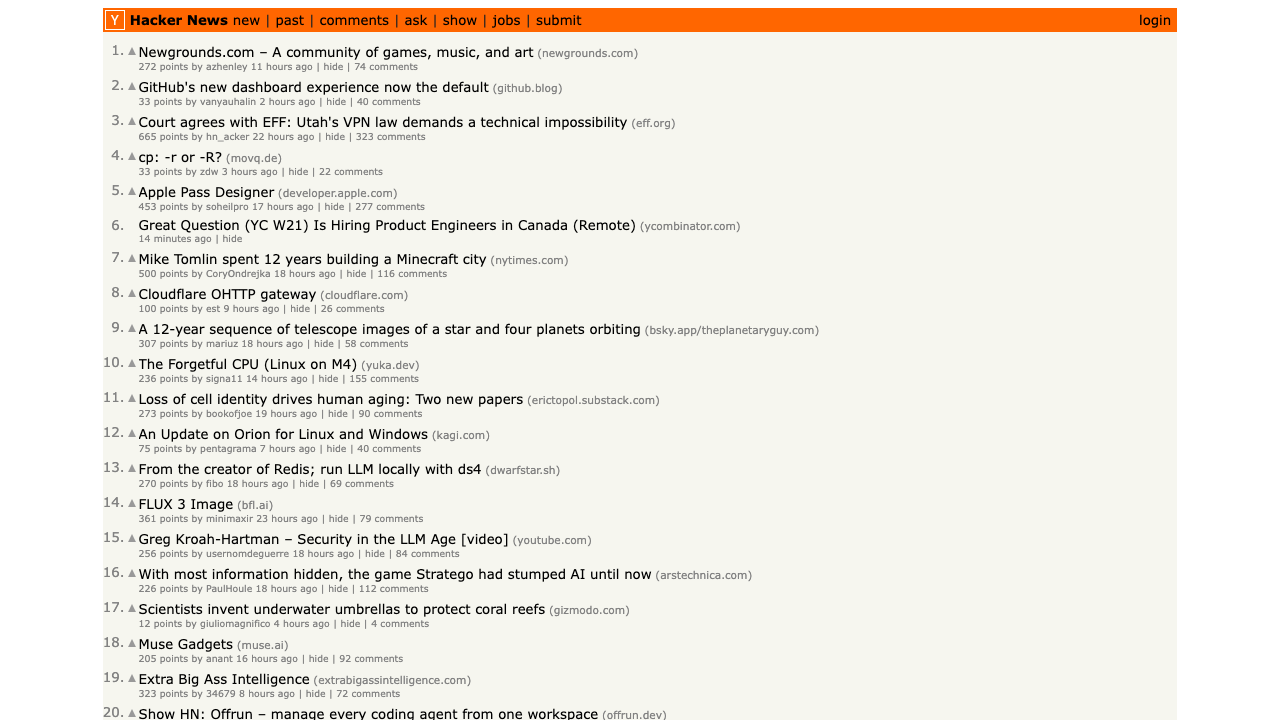
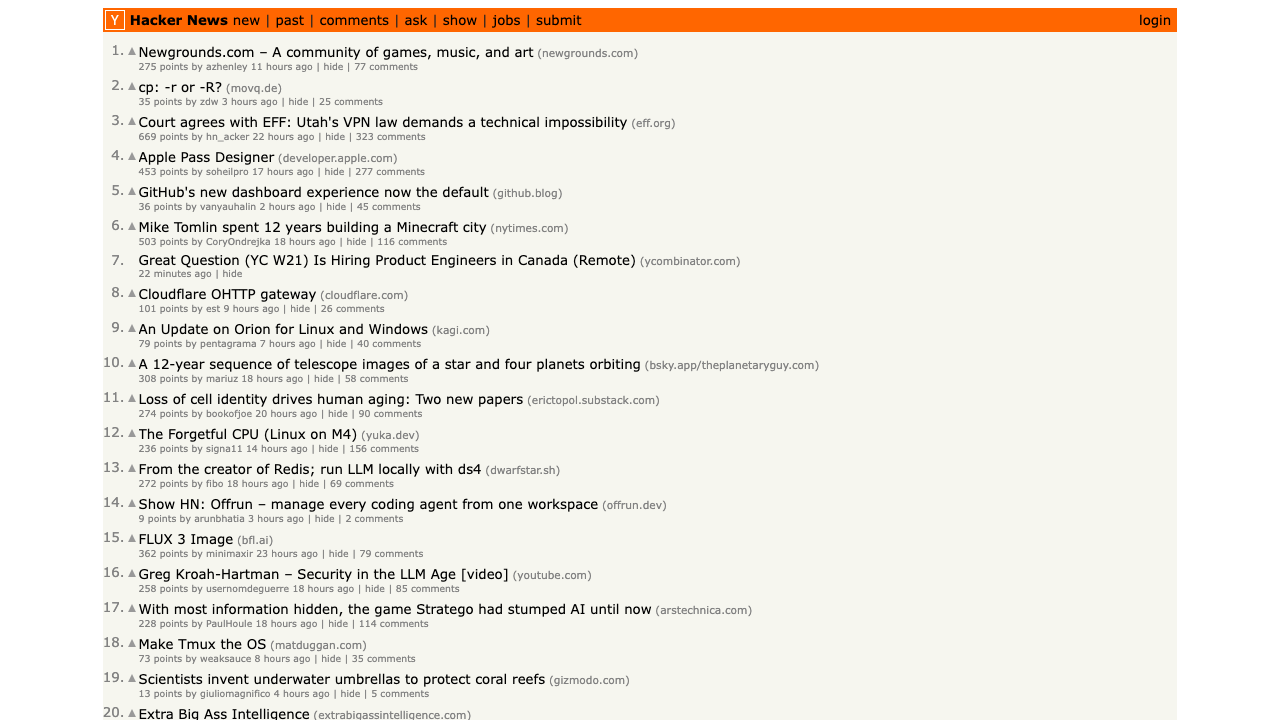
Let with values use the ones before them
The values of a step's or an assertion's `with` were all filled in at
once, using only the variables from outside the step. A value could not
read the other values of the same `with`, nor the Gherkin values that
are merged into it, so a step definition such as

    with:
      link: "tr.athing >> nth=${arg1 - 1} >> .titleline > a"

failed at run time with "unknown variable arg1", although
`ivy validate` accepted it.

Template.interpolateInOrder fills the values in one by one, each able
to use the ones before it, as suite vars already do. Gherkin values come
first. A value can still use an outside variable of the same name
(`user: "${user}-x"`). StepProcessor uses it for step `with`, and
AssertionChecker for assertion `with`.

- TemplateTest: values that use earlier values and outer variables
- shell.feature: a step definition whose `with` uses arg1 and an
  earlier value
- examples/browser: the Hacker News definition uses `with: {link: ...}`
  again instead of repeating its selector; screenshots regenerated
- docs: the order of `with` values in expressions.md; the Gherkin
  walkthrough in mcp.md shows the fix

diff --git a/ivy-core/src/main/java/xyz/fokion/ivy/core/expr/Template.java b/ivy-core/src/main/java/xyz/fokion/ivy/core/expr/Template.java
@@ -237,6 +237,20 @@ public final class Template {
         };
     }
 
+    /**
+     * Renders a map of variables in order, each value seeing the ones before it, as in
+     * {@code with: {n: "${arg1 - 1}", link: "row >> nth=${n}"}}. A name that is not defined yet
+     * reads the enclosing scope, so {@code user: "${user}-x"} extends an outer {@code user}.
+     */
+    public static Map<String, Object> interpolateInOrder(Map<?, ?> vars, Scope scope) {
+        Map<String, Object> out = new LinkedHashMap<>();
+        Scope inner = scope.child(out);
+        for (Map.Entry<?, ?> e : vars.entrySet()) {
+            out.put(String.valueOf(e.getKey()), interpolate(e.getValue(), inner));
+        }
+        return out;
+    }
+
     /** Adds the variables read by the templates of a parsed YAML value. */
     public static void collectRoots(Object value, Set<String> out) {
         switch (value) {

diff --git a/ivy-core/src/main/java/xyz/fokion/ivy/core/engine/AssertionChecker.java b/ivy-core/src/main/java/xyz/fokion/ivy/core/engine/AssertionChecker.java
@@ -98,7 +98,7 @@ final class AssertionChecker {
         String source = String.valueOf(raw);
         try {
             a = Assertion.of(raw);
-            Scope s = a.with() == null ? scope : scope.child(castMap(Template.interpolate(a.with(), scope)));
+            Scope s = a.with() == null ? scope : scope.child(Template.interpolateInOrder(a.with(), scope));
             source = a.source(s);
             Expression.Traced t = Expression.compile(source).evaluateTraced(s);
             if (Values.truthy(t.value())) {
@@ -119,10 +119,5 @@ final class AssertionChecker {
             f.assertionRequired = raw instanceof Map<?, ?> m && m.containsKey("must");
             return f;
         }
-    }
-
-    @SuppressWarnings("unchecked")
-    private static Map<String, ?> castMap(Object v) {
-        return v instanceof Map<?, ?> m ? (Map<String, ?>) m : Map.of();
     }
 }

diff --git a/ivy-core/src/test/java/xyz/fokion/ivy/core/expr/TemplateTest.java b/ivy-core/src/test/java/xyz/fokion/ivy/core/expr/TemplateTest.java
@@ -57,6 +57,15 @@ class TemplateTest {
     }
 
     @Test
+    void interpolatesVariablesInOrder() {
+        Map<String, Object> with = new java.util.LinkedHashMap<>();
+        with.put("n", "${user.id}");
+        with.put("next", "${n + 1}");
+        with.put("base", "${base}/v2");
+        assertEquals(Map.of("n", 7L, "next", 8L, "base", "http://h/v2"), Template.interpolateInOrder(with, SCOPE));
+    }
+
+    @Test
     void explainsUnknownShellVariables() {
         ExprException e = assertThrows(ExprException.class, () -> render("echo ${HOME}"));
         assertTrue(e.getMessage().contains("to pass ${HOME} to a shell, write $${HOME}"), e.getMessage());

diff --git a/ivy-core/src/main/java/xyz/fokion/ivy/core/engine/StepProcessor.java b/ivy-core/src/main/java/xyz/fokion/ivy/core/engine/StepProcessor.java
@@ -82,7 +82,7 @@ final class StepProcessor {
                 Range ranged;
                 try {
                     if (step.get("with") instanceof Map<?, ?> with) {
-                        Map<String, Object> values = stringMap(Template.interpolate(with, scope));
+                        Map<String, Object> values = Template.interpolateInOrder(with, scope);
                         values.forEach((k, v) -> {
                             if (ivy.secrets.isName(k)) {
                                 ivy.secrets.add(v);

diff --git a/docs/mcp.md b/docs/mcp.md
@@ -224,12 +224,14 @@ steps:
   - expression: 'I open story {int}'
     step:
       type: browser
+      with:
+        link: "tr.athing >> nth=${arg1 - 1} >> .titleline > a"
       actions:
-      - text: "tr.athing >> nth=${arg1 - 1} >> .titleline > a"
+      - text: ${link}
         as: title
-      - attribute: {selector: "tr.athing >> nth=${arg1 - 1} >> .titleline > a", name: href}
+      - attribute: {selector: "${link}", name: href}
         as: href
-      - click: "tr.athing >> nth=${arg1 - 1} >> .titleline > a"
+      - click: ${link}
       set:
         story: "{rank: number(arg1), title: result.values.title, href: result.values.href, url: result.url, pageTitle: result.title}"
   - expression: 'I am no longer on {string}'
@@ -251,7 +253,7 @@ steps:
 | Tool | Message | Fix |
 |---|---|---|
 | `validate_suite` | `missing variables [story]` | `set` goes inside `step:`, not next to it |
-| `run_suite` | `unknown variable arg1 ... in template "tr.athing >> nth=${arg1 - 1} ..."` | Gherkin captures reach the step through `with`, and a `with:` in the definition replaces them. Inline the value instead |
+| `run_suite` | `unknown variable arg1 ... in template "tr.athing >> nth=${arg1 - 1} ..."` | Gherkin captures reach the step through `with`, merged with the definition's own `with:`. Its values could not read one another, so `link` could not see `arg1`. Fixed in ivy: `with` values now resolve in order, each seeing the ones before it |
 | output file | `"rank":"3"` | captures are strings: `number(arg1)` |
 
 ### 5. Run it

diff --git a/docs/expressions.md b/docs/expressions.md
@@ -54,7 +54,7 @@ In YAML, quote an expression that starts with `!` or holds `: `.
 | `cases.<name>.<value>` | values set by an earlier test case (`cases["get token"].token`) |
 | `result` | the result of the step, in its assertions, `retryIf`, `info` and `set` |
 | `index`, `key`, `value` | the item of a ranged step |
-| `with` | variables of one step (Gherkin captures arrive this way) |
+| `with` | variables of one step, in order: each value may use the ones before it (Gherkin captures come first) |
 | `input` | the inputs of a user executor |
 | `env` | environment variables |
 | `ivy` | `ivy.suite.{name, file, path, workdir}`, `ivy.case.{name, tags}`, `ivy.step.number`, `ivy.outputDir`... |
